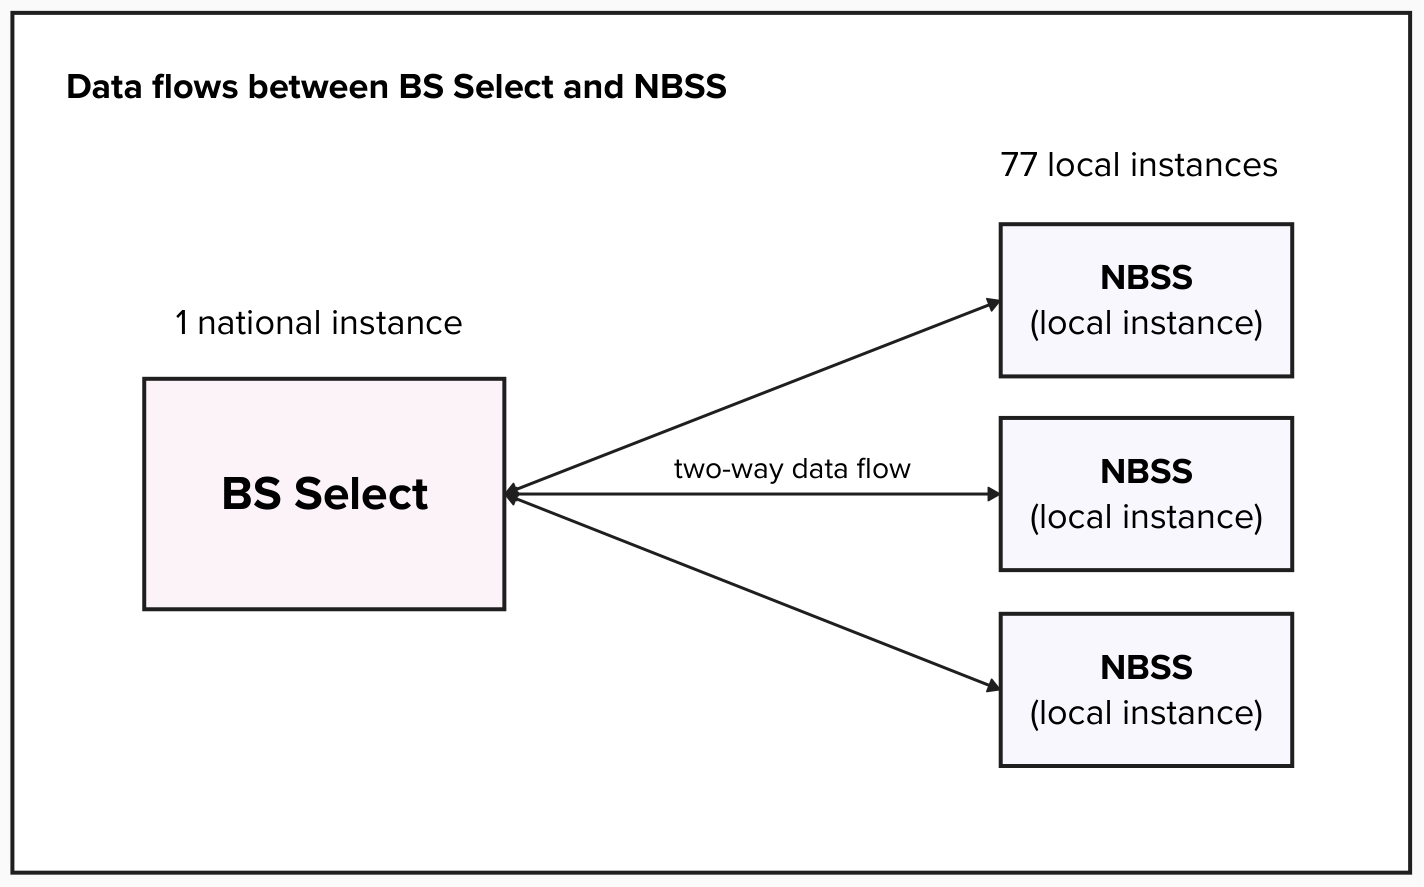
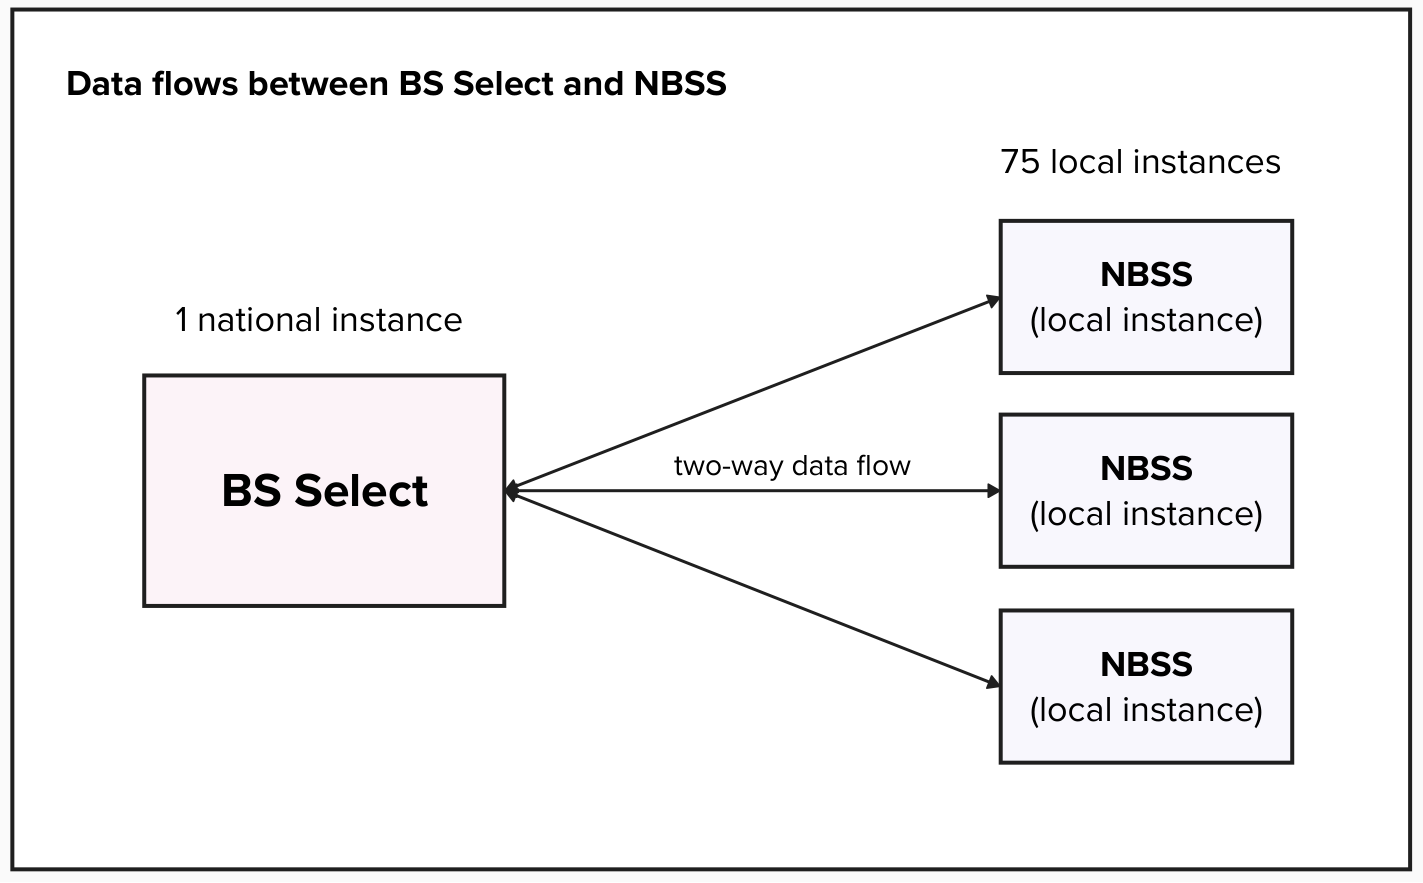
updated data flow image

diff --git a/app/breast-screening-pathway/2025/12/understanding-batching/index.md b/app/breast-screening-pathway/2025/12/understanding-batching/index.md
@@ -31,7 +31,7 @@ There is also an additional method of batching called the Routine Failsafe. This
 
 Once a batch has been created in BS Select, it is sent overnight to the BSO’s local instance of the National Breast Screening System (NBSS) where they can allocate appointments and send invitations.  
 
-![Diagram showing flow between BS Select and NBSS instances. It has a box on the left representing the BS Select system, which is a single, national instance. On the right are three smaller boxes, each representing a local instance of NBSS. There are 77 instances of NBSS as each BSO has their own. Two-way arrows point between the boxes to represent the two-way data flow between BS Select and NBSS](001-bsselect-nbss-data-flows.png "Data flows between BS Select and NBSS")
+![Diagram showing flow between BS Select and NBSS instances. It has a box on the left representing the BS Select system, which is a single, national instance. On the right are three smaller boxes, each representing a local instance of NBSS. There are 75 instances of NBSS as each BSO has their own. Two-way arrows point between the boxes to represent the two-way data flow between BS Select and NBSS](001-bsselect-nbss-data-flows.png "Data flows between BS Select and NBSS")
 
 ## Understanding batching methods
 
